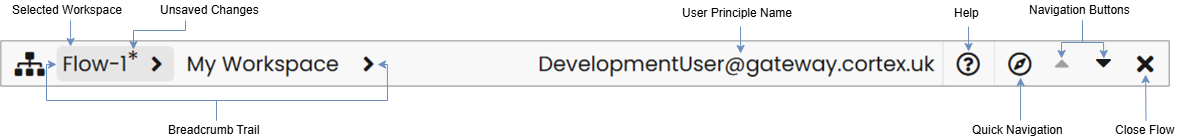
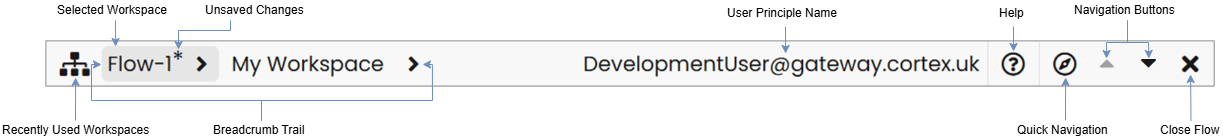
changes following PO review

diff --git a/content/en/docs/2025.3/Guides/user-guides/user-interfaces/gateway/dev/flow-editor/overview.md b/content/en/docs/2025.3/Guides/user-guides/user-interfaces/gateway/dev/flow-editor/overview.md
@@ -9,7 +9,7 @@ weight: 1
 
 ## Summary
 
-The Flow Editor page allows you to develop, test and debug flows.
+The Flow Editor page allows you to view, edit and debug flows.
 
 ## Anatomy
 
@@ -36,32 +36,37 @@ The [Main Panel][] is always visible and consists of:
 
 ### Right Panel
 
-The [Right Panel][] offers different tabs depending on the mode selected:
+The [Right Panel][] consists of 2 or 3 tabs depending on the mode selected:
 
 * In `View`, `Edit` or `Debug Edit` mode, the following tabs are available:
 
-  * Properties (default) - displays the [Property Editor][] showing the properties of the currently selected object.
-  * Settings - displays the [Settings Editor][] to set the input variables for the flow.
+  * Properties (default) - displays the [Property Editor][] showing the properties of the currently selected block.
+  * Settings - displays the [Settings Editor][] to set the values of the [input variables][] used when debugging the flow.
 
 * In `Debug` mode, the following tabs are available:
 
-  * Variables (default) - displays the [Execution Viewer][] showing the values of the variables during run-time.
-  * Exceptions - displays the [Exceptions Viewer][] showing details of any run-time exceptions.
-  * Settings - displays the [Settings Editor][] to set the input variables for the flow.
+  * Variables (default) - displays the [Execution Viewer][] showing the values of the variables when debugging the flow.
+  * Exceptions - displays the [Exceptions Viewer][] showing details of any exceptions when debugging the flow.
+  * Settings - displays the [Settings Editor][] to set the values of the [input variables][] used when debugging the flow.
 
 ### Bottom Panel
 
-The [Bottom Panel][] offers different tabs:
+The [Bottom Panel][] consists of 3 tabs:
 
-* Executions (default) - displays the [Executions Grid][] showing all current executions.
-* Messages - displays the [Messages Grid][] showing all messages raised by the translator during flow execution.
-* Variables - displays the [Variables Grid][] enabling the management of {{% ctx %}} variables.
+* Executions (default) - displays the [Executions Grid][] listing current executions being debugged by the user.
+* Messages - displays the [Messages Grid][] listing issues preventing the flow from being debugged.
+* Variables - displays the [Variables Grid][] enabling the management of variables.
 
 ## See Also
 
 ### Related Concepts
 
-None
+* [Blocks][]
+* [Exceptions][]
+* [Executions][]
+* [Flows][]
+* [Variables][]
+* [Workspaces][TODO]
 
 ### Related Tutorials
 

diff --git a/content/en/docs/2025.3/Guides/user-guides/user-interfaces/gateway/dev/flow-editor/navigation-bar.md b/content/en/docs/2025.3/Guides/user-guides/user-interfaces/gateway/dev/flow-editor/navigation-bar.md
@@ -9,14 +9,15 @@ weight: 10
 
 ## Summary
 
-TODO
+The Navigation Bar is at the top of the page and provides information about the currently selected workspace, navigation between simultaneously opened flows, and access to online help.
 
 ## Anatomy
 
 {{< figure src="/images/Flow Editor - Navigation Bar.png" title="Navigation Bar" >}}
 
-The Navigation bar consists of 5 elements:
+The Navigation bar consists of 6 elements:
 
+* [Recently Used Workspaces][]
 * [Breadcrumb Trail][]
 * [User Principle Name][]
 * [Help][]
@@ -29,7 +30,6 @@ The breadcrumb trail shows the hierarchy of all the open workspaces of the flow 
 
 {{% alert title="Note" %}}The breadcrumb trail only shows the names of the workspaces, as set on the workspace menu bar, not the workspace description as set in the workspace Description property.{{% /alert %}}
 
-
 ### User Principle Name
 
 The User Principle Name identifies the current user logged in to Gateway.
@@ -41,6 +41,10 @@ The User Principle Name identifies the current user logged in to Gateway.
 Clicking on the {{< image src="/images/Flow Editor - Help.png" >}} icon, will open the Product Portal, online documentation for {{% ctx %}}, in a new browser tab automatically selecting the section relevant to {{% ctx %}} version being used.
 
 ### Navigation
+
+#### Recently Used Workspaces
+
+TODO
 
 #### Quick Navigation
 
